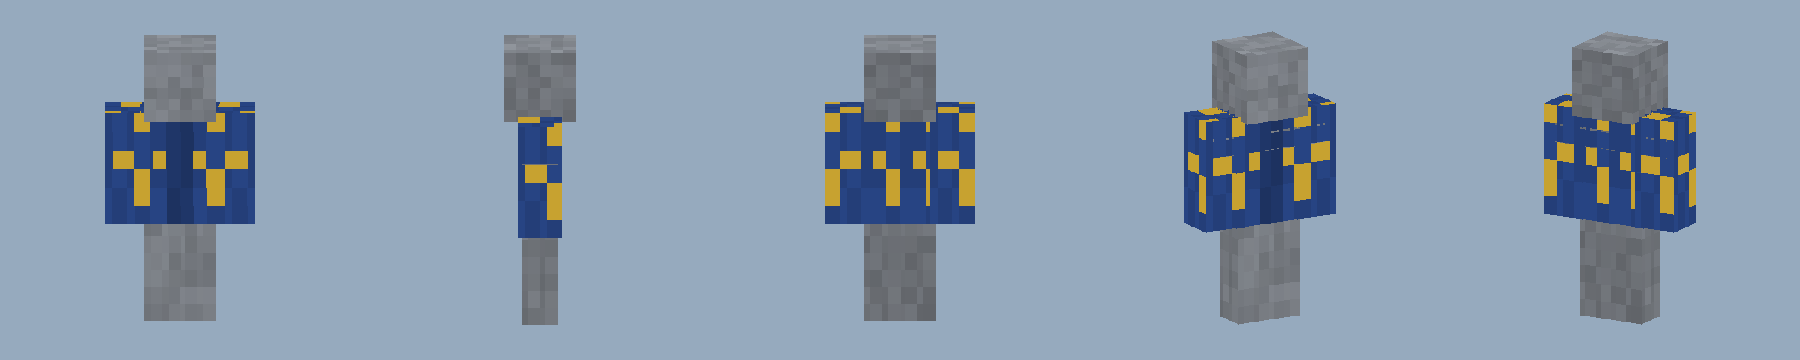
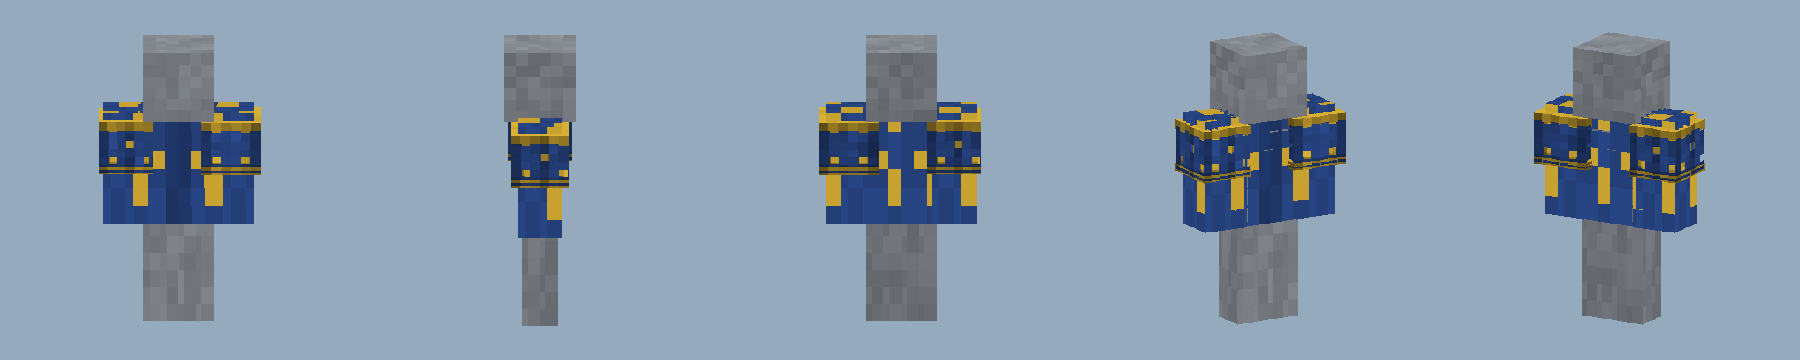
vault sync from DESKTOP-49GFK3E

diff --git a/Assets/mordhau-3-body/README.md b/Assets/mordhau-3-body/README.md
@@ -15,7 +15,7 @@ these pictures were run here.
 | mh-doublet (have) | `arming_doublet`: recipe `arming_doublet.json`, the shepherd sells it, guards are kitted with it; leather already. No new model. | (existing) |
 | mh-cloth-tops | new `linen_shirt`, `wool_tunic` (with a short skirt) and `cloth_vest` (PADDING, no armour, dyed). "Nothing" is no piece. | `linen_shirt`, `wool_tunic`, `cloth_vest` |
 | mh-leather-jack | new `leather_jack` (PADDING, 1 armour, mended with leather), sleeveless, laced down the front | `leather_jack` |
-| mh-landsknecht-doublet | new `landsknecht_doublet` (PADDING, 1 armour): slits cut through the cloth with the second colour showing. Guards: see "Guards" below. Lore (new): "The company's doublet" | `landsknecht_doublet` |
+| mh-landsknecht-doublet | new `landsknecht_doublet` (PADDING, 1 armour): slits cut through the cloth with the second colour showing, and puffed sleeves (a model hung with the sheet, built as the slashed hose's thigh puffs are: slashed, lined and gathered in the second colour, the left a size fuller). Guards: see "Guards" below. Lore (new): "The company's doublet" | `landsknecht_doublet` |
 | mh-mail (have) | `mail_haubergeon`: forged from iron at the smith's anvil (already). The tabard over it: row mh-tabard. | (existing) |
 | mh-hauberk | new `mail_hauberk` (MAIL, 3 armour): full sleeves on the sheet, the mail skirt to the knee a model hung on the legs; forged from iron | `mail_hauberk` |
 | mh-plated-mail | new `plated_mail` (MAIL, 3 armour): the haubergeon with plates let into the chest and back; forged from iron | `plated_mail` |
@@ -63,5 +63,5 @@ gilded they are not for royals and lords alone.
 ## Not done / not checked
 
 - Not played; Java not compiled here (CI compiles).
-- The slashed doublet's sleeves are slashed but not puffed (the under-armour layer is flat on the arm).
+- The slashed doublet's puffed sleeves (added after review, 5:40 PM, 2026-11-25) sit outside the upper arm, so a plate arm harness worn with it is hidden under the puffs from shoulder to above the elbow (the slashed hose's thigh puffs do the same over cuisses). Not seen in the game.
 - Covered plate is coloured by the wool the smith carries; guards and shops do not sell it, and there is no re-dye recipe for it.

diff --git a/Agents/mordhau-3-body.md b/Agents/mordhau-3-body.md
@@ -43,3 +43,5 @@ made the way the harness makes its pieces. Mordhau's meshes, textures and names 
 ## Done
 - 2026-11-25 4:54 PM Generator, models, sheets, previews, Java (registrations, layers, forging, guards), lore and change notes are written; branch claude/mordhau-3-body is being checked and pushed.
 - 2026-11-25 4:59 PM Draft PR #2185 (waits on Andy's preview approval). 35 rows: 25 new pieces + covered finish + 10 have rows checked (3 made reachable at the anvil, coat of plates given a recipe). Change notes: changes/kingdoms and changes/powers claude-mordhau-3-body.md. Lore: 8 (new) paragraphs after 'The victor's wreath'. Not played; Java compiled only by CI.
+- 2026-11-25 5:40 PM The slashed doublet is puffed now (commit 2c11177dc9 on claude/mordhau-3-body, merged into claude/mordhau-4-legs as 5167428419): puffed sleeves slashed through, lined and gathered in the second colour, the left a size fuller, as the slashed hose's thigh puffs. Preview refreshed in Assets/mordhau-3-body/landsknecht_doublet.png. Not played; CI compiles.
+- 2026-11-25 5:40 PM Vault sync repaired: every push since 2026-11-24 12:43 PM had failed because a 290 MB `Assets/otherworld-fabric-picklist/Otherworld-v8 HF2.zip` was committed (GitHub refuses files over 100 MB), so each sync run only added commits (319 piled up). The 319 local commits were kept (backup branch `backup-before-zip-strip` in the live folder holds the originals) with the zip dropped from them, and pushed as a plain fast-forward (c2bc11ebf..b73d1c0aa, no force). The zip is still on disk, kept out of git by `.git/info/exclude`. Anything else over 100 MB put in the vault will stall the sync the same way.

diff --git a/Agents/mordhau-4-legs.md b/Agents/mordhau-4-legs.md
@@ -36,3 +36,4 @@ owns:
 - 2026-11-25 4:54 PM Queued behind track 3 in the same thread; starts when track 3's PR is up.
 - 2026-11-25 5:10 PM Draft PR #2186. 15 rows: 27 new pieces + the HOSE place (last Slot, hose layer in UnderArmourLayer, slot on the harness screen). Lore: 2 (new) paragraphs. Not played; Java compiled only by CI.
 - 2026-11-25 5:21 PM PR #2186 closed (no CI: not based on master); replaced by draft #2187 from the same branch to master, which also holds #2185's commits until that merges. Previews regenerated with a true front/side/back.
+- 2026-11-25 5:40 PM The body track's slashed doublet is puffed now (commit 2c11177dc9 on claude/mordhau-3-body, merged into claude/mordhau-4-legs as 5167428419): puffed sleeves slashed through, lined and gathered in the second colour, the left a size fuller, as the slashed hose's thigh puffs. Preview refreshed in Assets/mordhau-3-body/landsknecht_doublet.png. Not played; CI compiles.

diff --git a/Inbox/mordhau-3-body.md b/Inbox/mordhau-3-body.md
@@ -63,3 +63,4 @@ pr: 2185
 - 2026-11-25 4:12 PM claude (T3 thread, Sonnet 5.5) claimed both Mordhau tracks (3 then 4, one PR each; 4 stacks on 3). Reading of the slashed-doublet note: off duty a guard's heavy places come off and the under-layers stay on (padding, mail, hose); recorded in the agent note.
 - 2026-11-25 4:59 PM claude (T3 thread): draft PR #2185 up; previews and row table in Assets/mordhau-3-body/ (README); waiting on Andy's preview approval and CI (Java is compiled only by CI). Guard reading is in the PR body and the README.
 - 2026-11-25 5:21 PM Review fixes pushed (brigandine belt, linen shirt recipe, gold finishes cost gold, true front/side/back previews). Note for Andy: guards now show the quilted coat where they showed mail (it was drawn as mail by mistake). #2185 should merge before #2187.
+- 2026-11-25 5:40 PM claude (T3 thread): slashed doublet now puffed (2c11177dc9); previews and README refreshed.

diff --git a/Inbox/mordhau-4-legs.md b/Inbox/mordhau-4-legs.md
@@ -38,3 +38,4 @@ pr: 2187
 - 2026-11-25 4:12 PM claude (T3 thread, Sonnet 5.5) claimed both Mordhau tracks (3 then 4, one PR each; 4 stacks on 3). Reading of the slashed-doublet note: off duty a guard's heavy places come off and the under-layers stay on (padding, mail, hose); recorded in the agent note.
 - 2026-11-25 5:10 PM claude (T3 thread): draft PR #2186 (stacked on #2185); previews and row table in Assets/mordhau-4-legs/ (README); waiting on Andy's preview approval and CI. Track 3's CI (#2185) is green: Kingdoms, Powers, Kitchen builds and the pack start check.
 - 2026-11-25 5:21 PM PR #2186 closed (no CI: not based on master); replaced by draft #2187 from the same branch to master, which also holds #2185's commits until that merges. Previews regenerated with a true front/side/back.
+- 2026-11-25 5:40 PM claude (T3 thread): merged the body track's puffed slashed doublet into this branch (5167428419).
